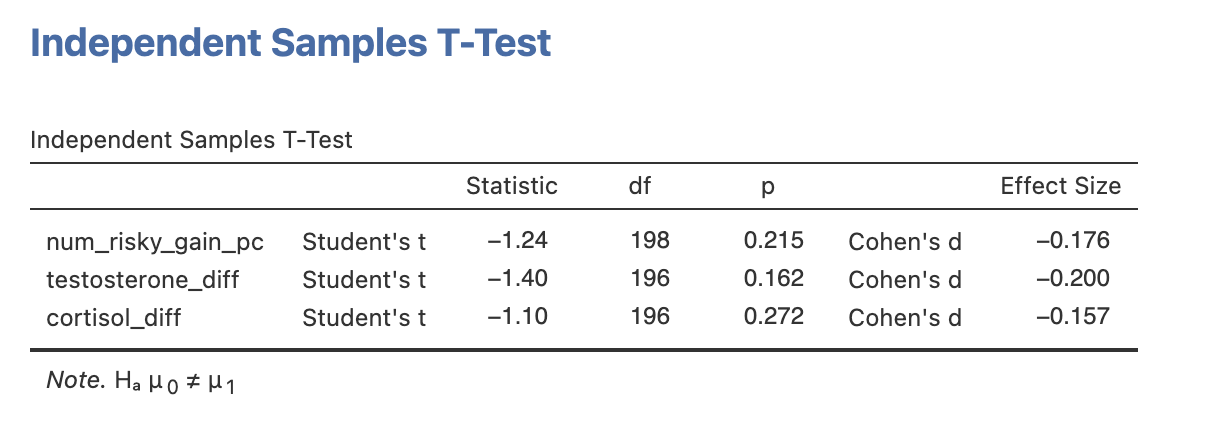
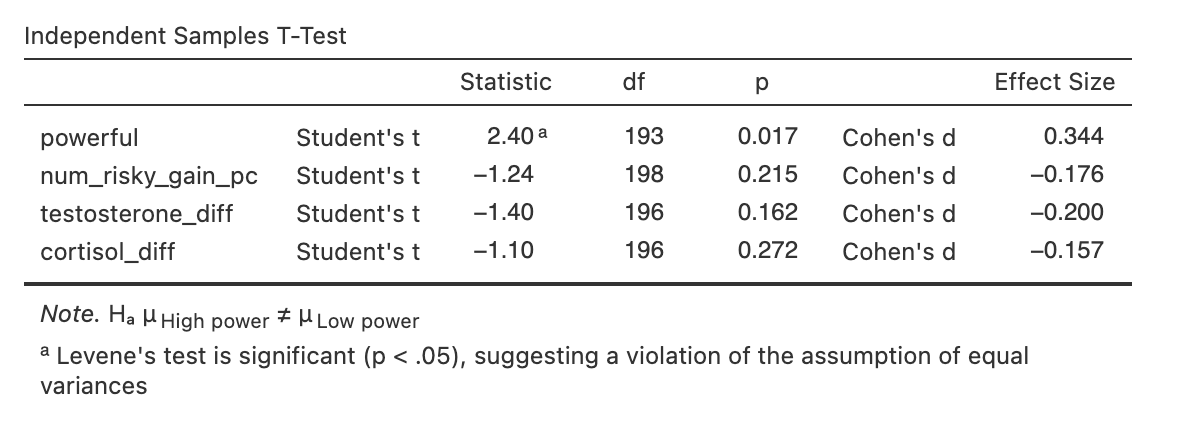
Built site for gh-pages

diff --git a/tutorials/rmb-week-11_putting-it-together.html b/tutorials/rmb-week-11_putting-it-together.html
@@ -583,7 +583,7 @@ Check Your Understanding
 <p>Can you replicate this analysis using the <code>powerful</code> and <code>hp_condition</code> (1 is ‘high power pose’ and 0 is ‘low power pose’) variables in the replication dataset from <span class="citation" data-cites="Ranehill2015_assessing">(<a href="#ref-Ranehill2015_assessing" role="doc-biblioref">Ranehill et al. 2015</a>)</span>? <span class="citation" data-cites="Carney2010_power">(<a href="#ref-Carney2010_power" role="doc-biblioref">Carney, Cuddy, and Yap 2010</a>)</span> used an ANOVA but you should use a t-test.</p>
 <p>Use the results to fill in the gaps in the reporting below.</p>
 <blockquote class="blockquote">
-<p>The results <select class="webex-select"><option value="blank"></option><option value="answer">replicate</option><option value="">do not replicate</option></select> the original finding about subjective feeling. High-power posers (M = <input class="webex-solveme nospaces" size="5" data-answer="[&quot;0.223&quot;,&quot;.223&quot;]">, SD = <input class="webex-solveme nospaces" size="5" data-answer="[&quot;0.753&quot;,&quot;.753&quot;]">) reported feeling <select class="webex-select"><option value="blank"></option><option value="">less powerful than</option><option value="">just as powerful as</option><option value="answer">more powerful than</option></select> low-power posers did (M = <input class="webex-solveme nospaces" size="5" data-answer="[&quot;1.978&quot;]">, SD = <input class="webex-solveme nospaces" size="5" data-answer="[&quot;0.663&quot;,&quot;.663&quot;]">), t(<input class="webex-solveme nospaces" size="3" data-answer="[&quot;193&quot;]">) = <input class="webex-solveme nospaces" size="4" data-answer="[&quot;-2.4&quot;]">, p = <input class="webex-solveme nospaces" size="5" data-answer="[&quot;0.017&quot;,&quot;.017&quot;]">; Cohen’s d = <input class="webex-solveme nospaces" size="6" data-answer="[&quot;-0.344&quot;,&quot;-.344&quot;]">.</p>
+<p>The results <select class="webex-select"><option value="blank"></option><option value="answer">replicate</option><option value="">do not replicate</option></select> the original finding about subjective feeling. High-power posers (M = <input class="webex-solveme nospaces" size="4" data-answer="[&quot;2.22&quot;]">, SD = <input class="webex-solveme nospaces" size="5" data-answer="[&quot;0.753&quot;,&quot;.753&quot;]">) reported feeling <select class="webex-select"><option value="blank"></option><option value="">less powerful than</option><option value="">just as powerful as</option><option value="answer">more powerful than</option></select> low-power posers did (M = <input class="webex-solveme nospaces" size="5" data-answer="[&quot;1.978&quot;]">, SD = <input class="webex-solveme nospaces" size="5" data-answer="[&quot;0.663&quot;,&quot;.663&quot;]">), t(<input class="webex-solveme nospaces" size="3" data-answer="[&quot;193&quot;]">) = <input class="webex-solveme nospaces" size="4" data-answer="[&quot;-2.4&quot;]">, p = <input class="webex-solveme nospaces" size="5" data-answer="[&quot;0.017&quot;,&quot;.017&quot;]">; Cohen’s d = <input class="webex-solveme nospaces" size="6" data-answer="[&quot;-0.344&quot;,&quot;-.344&quot;]">.</p>
 </blockquote>
 </div>
 <div id="tabset-3-2" class="tab-pane" role="tabpanel" aria-labelledby="tabset-3-2-tab">
@@ -591,7 +591,7 @@ Check Your Understanding
 </div>
 <div id="tabset-3-3" class="tab-pane" role="tabpanel" aria-labelledby="tabset-3-3-tab">
 <blockquote class="blockquote">
-<p>High-power posers reported feeling significantly more “powerful” (M = 0.223, SD = 0.753) than low-power posers did (M = 1.978, SD = 0.663), t(193) = -2.40, p = 0.017; Cohen’s d = -0.344.</p>
+<p>High-power posers reported feeling significantly more “powerful” (M = 2.22, SD = 0.753) than low-power posers did (M = 1.978, SD = 0.663), t(193) = -2.40, p = 0.017; Cohen’s d = -0.344.</p>
 </blockquote>
 </div>
 </div>
@@ -604,7 +604,7 @@ Check Your Understanding
 <i class="callout-icon no-icon"></i>
 </div>
 <div class="callout-title-container flex-fill">
-<i class="bi bi-question-lg"></i> Data Skills - Compare your results above to those reported in the replication paper - do they match up?
+<i class="bi bi-question-lg"></i> Data Skills - Compare your results above to those reported in the replication paper - are there any differences?
 </div>
 <div class="callout-btn-toggle d-inline-block border-0 py-1 ps-1 pe-0 float-end"><i class="callout-toggle"></i></div>
 </div>
@@ -631,11 +631,18 @@ Key step - open after answering the previous question
 </div>
 <div id="callout-7" class="callout-7-contents callout-collapse collapse">
 <div class="callout-body-container callout-body">
-<p>Something strange has happened - it seems like <span class="citation" data-cites="Ranehill2015_assessing">(<a href="#ref-Ranehill2015_assessing" role="doc-biblioref">Ranehill et al. 2015</a>)</span> must have computed the t-test the other way around. eg they have done low power minus high power - whereas we are computing high power minus low power.</p>
-<p>This is a bit annoying but straightforward to fix. Create a new Transformed variable from <code>hp_condition</code> by computing <code>1 - hp_condition</code>.</p>
-<p><strong>Note : Make sure you use ‘Transform’ and not ‘Compute’ for your variable. ‘Compute’ will not retain the right data type.</strong></p>
-<p>We covered transforming variables in <a href="rmb_week-7_non-parametrics.html#transforming-non-normally-distributed-data">Week 7 Section 7</a>.</p>
-<p>Repeat the t-test using the new variable as a grouping factor.</p>
+<p>Something strange has happened - it seems like <span class="citation" data-cites="Ranehill2015_assessing">(<a href="#ref-Ranehill2015_assessing" role="doc-biblioref">Ranehill et al. 2015</a>)</span> must have computed the t-test the other way around compared to our analysis. They have a positive t-value and ours is negative.</p>
+<p>Remember that the <strong>direction</strong> of a t-test (ie whether the t-statistics is positive or negative) doesn’t effect the p-values but does change the interpretation of the result a little.</p>
+<p>This is because the order of subtraction makes a difference to the answer - if we do <code>2 + 3</code> or <code>3 + 2</code> we get the same answer however <code>2 - 3</code> and <code>3 - 2</code> are <strong>not</strong> the same.</p>
+<p>The means of our groups are <code>1.98</code> for low power and <code>2.22</code> for high power poses. <span class="citation" data-cites="Ranehill2015_assessing">(<a href="#ref-Ranehill2015_assessing" role="doc-biblioref">Ranehill et al. 2015</a>)</span> report a positive t-value of <code>2.399</code> - so they must have run the equivalent of high power minus low power (<code>2.22 - 1.98</code>) and have a positive t-value indicating that the mean for high power is <strong>larger</strong>.</p>
+<p>In contrast, our negative t-value indicates we have run low power minus high power (<code>1.98 - 2.22</code>) and have a negative t-value indicating that the mean for low power is <strong>smaller</strong>.</p>
+<p>The order of the conditions in the t-test is controlled from the data varaible view. Double click on <code>hp_condition</code> in the ‘Variables’ tab, or on the column header of the ‘Data’ tab. We should need a ‘Nominal’ variable with two ‘Levels’ - <code>0</code> and <code>1</code>. The conditions in the t-test are sorted in the order of this ‘Levels’ list.</p>
+<p>You can reorder the levels to put <code>1</code> first and <code>0</code> second - which should update your t-test live to match <span class="citation" data-cites="Ranehill2015_assessing">(<a href="#ref-Ranehill2015_assessing" role="doc-biblioref">Ranehill et al. 2015</a>)</span>’s result.</p>
+<p><img src="../images/rmb-week-11_computer-practical/rmb-week-11_computer-practical_img4.png" class="img-fluid" width="450"></p>
+<p>We could make this even easier to remember by changing the names of the Levels to something more memorable. This is often a good idea when data has used an abstract numerical coding. Statistics is about precision and anything we can do to make the interpretation easier is a good thing.</p>
+<p><img src="../images/rmb-week-11_computer-practical/rmb-week-11_computer-practical_img5.png" class="img-fluid" width="450"></p>
+<p>Your adapted result should match the following:</p>
+<p><img src="../images/rmb-week-11_computer-practical/rmb-week-11_computer-practical_img6.png" class="img-fluid" width="450"></p>
 </div>
 </div>
 </div>
@@ -655,7 +662,9 @@ Check Your Understanding
 <div class="tab-content">
 <div id="tabset-4-1" class="tab-pane active" role="tabpanel" aria-labelledby="tabset-4-1-tab">
 <p>Can you replicate the core findings from <span class="citation" data-cites="Carney2010_power">(<a href="#ref-Carney2010_power" role="doc-biblioref">Carney, Cuddy, and Yap 2010</a>)</span> using the data from <span class="citation" data-cites="Ranehill2015_assessing">(<a href="#ref-Ranehill2015_assessing" role="doc-biblioref">Ranehill et al. 2015</a>)</span>?</p>
-<p>Run t-tests to analyse the following variables - <strong>make sure to use your new variable as a grouping factor</strong>. Use the variables <code>testosterone_diff</code>, <code>cortisol_diff</code> and <code>num_risky_gain_pc</code> as dependent variables.</p>
+<p><strong>Make sure you have completed the ‘Key step’ above before starting this exercise!</strong></p>
+<p>Run t-tests to analyse the effect of high vs low power posing on the following variables: <code>powerful</code>, <code>testosterone_diff</code>, <code>cortisol_diff</code> and <code>num_risky_gain_pc</code> as dependent variables.</p>
+<p>Read through the results of the original paper <span class="citation" data-cites="Carney2010_power">(<a href="#ref-Carney2010_power" role="doc-biblioref">Carney, Cuddy, and Yap 2010</a>)</span> - does the second study confirm the findings of the original?</p>
 <table class="caption-top table">
 <colgroup>
 <col style="width: 25%">
@@ -675,6 +684,20 @@ Check Your Understanding
 </thead>
 <tbody>
 <tr class="odd">
+<td>Feelings of power</td>
+<td><input class="webex-solveme nospaces" size="3" data-answer="[&quot;2.4&quot;]"></td>
+<td><input class="webex-solveme nospaces" size="5" data-answer="[&quot;0.017&quot;,&quot;.017&quot;]"></td>
+<td><input class="webex-solveme nospaces" size="6" data-answer="[&quot;-0.344&quot;,&quot;-.344&quot;]"></td>
+<td><select class="webex-select"><option value="blank"></option><option value="answer">Yes</option><option value="">No</option></select></td>
+</tr>
+<tr class="even">
+<td>Risk Taking (Gain)</td>
+<td><input class="webex-solveme nospaces" size="5" data-answer="[&quot;-1.24&quot;]"></td>
+<td><input class="webex-solveme nospaces" size="5" data-answer="[&quot;0.215&quot;,&quot;.215&quot;]"></td>
+<td><input class="webex-solveme nospaces" size="6" data-answer="[&quot;-0.176&quot;,&quot;-.176&quot;]"></td>
+<td><select class="webex-select"><option value="blank"></option><option value="">Yes</option><option value="answer">No</option></select></td>
+</tr>
+<tr class="odd">
 <td>Testosterone</td>
 <td><input class="webex-solveme nospaces" size="4" data-answer="[&quot;-1.4&quot;]"></td>
 <td><input class="webex-solveme nospaces" size="5" data-answer="[&quot;0.162&quot;,&quot;.162&quot;]"></td>
@@ -686,13 +709,6 @@ Check Your Understanding
 <td><input class="webex-solveme nospaces" size="4" data-answer="[&quot;-1.1&quot;]"></td>
 <td><input class="webex-solveme nospaces" size="5" data-answer="[&quot;0.272&quot;,&quot;.272&quot;]"></td>
 <td><input class="webex-solveme nospaces" size="6" data-answer="[&quot;-0.157&quot;,&quot;-.157&quot;]"></td>
-<td><select class="webex-select"><option value="blank"></option><option value="">Yes</option><option value="answer">No</option></select></td>
-</tr>
-<tr class="odd">
-<td>Risk Taking (Gain)</td>
-<td><input class="webex-solveme nospaces" size="5" data-answer="[&quot;-1.24&quot;]"></td>
-<td><input class="webex-solveme nospaces" size="5" data-answer="[&quot;0.215&quot;,&quot;.215&quot;]"></td>
-<td><input class="webex-solveme nospaces" size="6" data-answer="[&quot;-0.176&quot;,&quot;-.176&quot;]"></td>
 <td><select class="webex-select"><option value="blank"></option><option value="">Yes</option><option value="answer">No</option></select></td>
 </tr>
 </tbody>
@@ -721,6 +737,20 @@ Check Your Understanding
 </thead>
 <tbody>
 <tr class="odd">
+<td>Feelings of power</td>
+<td><code>2.40</code></td>
+<td><code>0.017</code></td>
+<td><code>-0.344</code></td>
+<td>Yes</td>
+</tr>
+<tr class="even">
+<td>Risk Taking (Gain)</td>
+<td><code>-1.24</code></td>
+<td><code>0.215</code></td>
+<td><code>-0.176</code></td>
+<td>No</td>
+</tr>
+<tr class="odd">
 <td>Testosterone</td>
 <td><code>-1.40</code></td>
 <td><code>0.162</code></td>
@@ -732,13 +762,6 @@ Check Your Understanding
 <td><code>-1.10</code></td>
 <td><code>0.272</code></td>
 <td><code>-0.157</code></td>
-<td>No</td>
-</tr>
-<tr class="odd">
-<td>Risk Taking (Gain)</td>
-<td><code>-1.24</code></td>
-<td><code>0.215</code></td>
-<td><code>-0.176</code></td>
 <td>No</td>
 </tr>
 </tbody>
